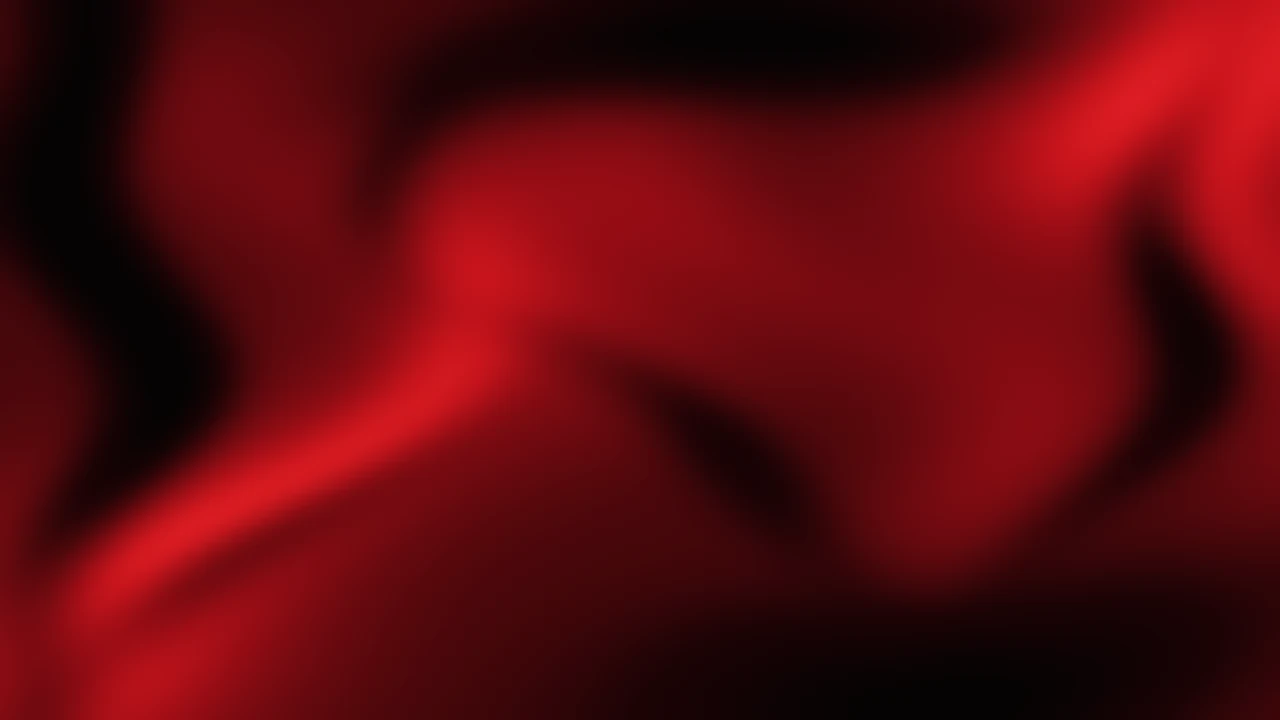
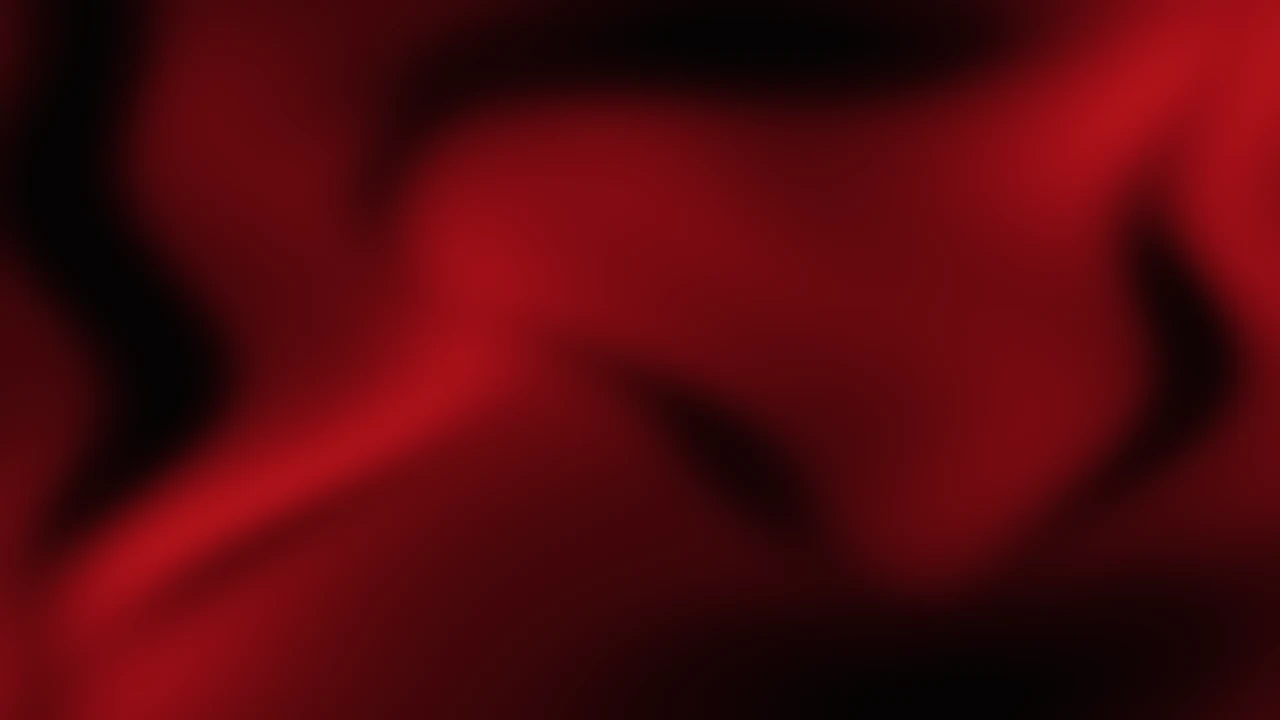
Baggrund: mindre skarp rød i "Vær med"
Claude-Session: https://claude.ai/code/session_01K1NmDuTSfZhruvctpGWosN

Changed region(s): [[0.0625, 0.2444, 0.4688, 1.0], [0.7812, 0.0, 1.0, 0.4278]]

diff --git a/site/script.js b/site/script.js
@@ -118,9 +118,9 @@
     "float fbm(vec2 p){float v=0.,a=.55;mat2 m=mat2(1.6,1.2,-1.2,1.6);for(int i=0;i<3;i++){v+=a*n(p);p=m*p;a*=.42;}return v/.9;}",
     "vec3 pal(float f){",
     " vec3 c=mix(vec3(.02,.012,.012),vec3(.16,.02,.03),smoothstep(0.,.3,f));",
-    " c=mix(c,vec3(.44,.04,.07),smoothstep(.25,.55,f));",
-    " c=mix(c,vec3(.71,.06,.10),smoothstep(.5,.78,f));",
-    " return mix(c,vec3(.89,.13,.15),smoothstep(.75,1.,f));}",
+    " c=mix(c,vec3(.38,.035,.06),smoothstep(.25,.55,f));",
+    " c=mix(c,vec3(.56,.05,.08),smoothstep(.5,.78,f));",
+    " return mix(c,vec3(.70,.07,.10),smoothstep(.75,1.,f));}",
     "void main(){",
     " vec2 uv=(vec2(gl_FragCoord.x,gl_FragCoord.y-sy)-.5*r)/max(r.y,r.x*.56);",
     " float a=-.55;uv=mat2(cos(a),-sin(a),sin(a),cos(a))*uv;",

diff --git a/tools/lav-baggrund.py b/tools/lav-baggrund.py
@@ -43,7 +43,7 @@ def field(kind):
     return np.clip(f, 0, 1)
 
 # farveskala: sort -> mørkerød -> rød -> klar rød
-stops = [(0.00, (5, 3, 3)), (0.28, (30, 4, 6)), (0.50, (92, 9, 14)), (0.72, (150, 13, 21)), (0.88, (200, 20, 28)), (1.00, (228, 32, 38))]
+stops = [(0.00, (5, 3, 3)), (0.28, (30, 4, 6)), (0.50, (84, 8, 13)), (0.72, (130, 11, 19)), (0.88, (160, 15, 23)), (1.00, (182, 20, 27))]
 def colorize(f):
     out = np.zeros((H, W, 3), np.float32)
     for (p0, c0), (p1, c1) in zip(stops, stops[1:]):
